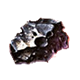
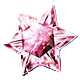
アーティファクト修正
アーティファクト修正

diff --git a/js/artifact.js b/js/artifact.js
@@ -12,30 +12,31 @@ const starterArtifact = {
 	recovery: {
 		name: '剣闘士の証', 
 		effect: '戦闘終了時、HP6回復。', 
-		image: 'images/artifact/gladiator.png', 
+		image: 'images/artifact/Gladiator.png', 
 		firstFunc: 'artifactRecovery'
 	},
 	startDraw: {
 		name: '魔剣士の証', 
 		effect: '戦闘開始時、カード2枚を追加で引く。', 
-		image: 'images/artifact/swordsman.png', 
+		image: 'images/artifact/Swordsman.png', 
 		firstFunc: 'artifactStartDraw'
 	},
 };
 
 const normalArtifact = {
+	/*********************************コモン*************************************/
 	hitPoint7: {
 		name: '栄華の指輪', 
 		rarity: rtifactRarity.common,
 		effect: '最大HPが増加:7', 
-		image: 'images/artifact/crown.png', 
+		image: 'images/artifact/Crown.png', 
 		firstFunc: ''
 	},
 	agility: {
 		name: '金華羽飾', 
 		rarity: rtifactRarity.common,
 		effect: '戦闘開始時、回避率アップ1を得る。', 
-		image: 'images/artifact/feather.png', 
+		image: 'images/artifact/Feather.png', 
 		firstFunc: 'artifactAgility'
 	},
 	attackUpGrade: {
@@ -55,21 +56,21 @@ const normalArtifact = {
 		name: 'サント・キャスク', 
 		rarity: rtifactRarity.common,
 		effect: '戦闘開始時に10ブロックを得る。', 
-		image: 'images/artifact/cask.png', 
+		image: 'images/artifact/Cask.png', 
 		firstFunc: 'artifactBlock'
 	},
 	lamp: {
 		name: '幻麗の明鉱', 
 		rarity: rtifactRarity.common,
 		effect: '戦闘開始時、1エナジーを得る。', 
-		image: 'images/artifact/lamp.png', 
+		image: 'images/artifact/Lamp.png', 
 		firstFunc: 'artifactLamp'
 	},
 	noBlock: {
 		name: '守護騎士の証', 
 		rarity: rtifactRarity.common,
 		effect: 'ブロック無しでターン終了した時、6ブロックを得る',
-		image: 'images/artifact/defender.png', 
+		image: 'images/artifact/Defender.png', 
 		firstFunc: ''
 	},
 	Samurai: {
@@ -83,167 +84,170 @@ const normalArtifact = {
 		name: '双剣士の証', 
 		rarity: rtifactRarity.common,
 		effect: 'アタックの使用10回ごとにダメージが2倍になる。', 
-		image: 'images/artifact/twinSwordsman.png', 
+		image: 'images/artifact/TwinSwordsman.png', 
 		firstFunc: ''
 	},
 	codex: {
 		name: 'コーデックス', 
 		rarity: rtifactRarity.common,
 		effect: '休憩時にカードを1枚獲得する。', 
-		image: 'images/artifact/codex.png', 
+		image: 'images/artifact/Codex.png', 
 		firstFunc: ''
 	},
 	pendant: {
 		name: 'オミナス・ペンダント', 
 		rarity: rtifactRarity.common,
 		effect: 'アタックを10枚プレイするたび、1エナジーを得る。', 
-		image: 'images/artifact/pendant.png', firstFunc: ''
+		image: 'images/artifact/Pendant.png', firstFunc: ''
 	},
 	stone: {
 		name: 'オミナス・ストーン',
 		rarity: rtifactRarity.common,
 		effect: '3ターンごとに、1エナジーを得る。', 
-		image: 'images/artifact/stone.png', 
+		image: 'images/artifact/Stone.png', 
 		firstFunc: ''
 	},
 	strength: {
 		name: 'オミナス・リング', 
 		rarity: rtifactRarity.common,
 		effect: '戦闘開始時、攻撃力アップ1獲得。', 
-		image: 'images/artifact/ring.png', 
+		image: 'images/artifact/Ring.png', 
 		firstFunc: 'artifactStrength'
 	},
 	goblet: {
 		name: 'オミナス・ゴブレット', 
 		rarity: rtifactRarity.common,
 		effect: '戦闘開始時、HP2回復。', 
-		image: 'images/artifact/goblet.png', 
+		image: 'images/artifact/Goblet.png', 
 		firstFunc: 'artifactNormalRecovery'
 	},
 	gavel: {
 		name: '幻麗の小槌', 
 		rarity: rtifactRarity.common,
 		effect: 'ショップに来店するたび、HPを15回復。', 
-		image: 'images/artifact/gavel.png', 
+		image: 'images/artifact/Gavel.png', 
 		firstFunc: ''
 	},
+	/*********************************アンコモン*************************************/
 	hitPoint10: {
 		name: '覇業の指輪', 
 		rarity: rtifactRarity.uncommon,
 		effect: '最大HPが増加:10', 
-		image: 'images/artifact/conquest.png', 
+		image: 'images/artifact/Conquest.png', 
 		firstFunc: ''
 	},
 	threeAttackPower: {
 		name: 'オミナス・ホーン', 
 		rarity: rtifactRarity.uncommon,
 		effect: '1ターンに3枚の「アタック」をプレイするたび、攻撃力アップ1を得る。', 
-		image: 'images/artifact/horn.png', 
+		image: 'images/artifact/Horn.png', 
 		firstFunc: ''
 	},
 	threeAttackDexterity: {
 		name: 'オミナス・フィアン', 
 		rarity: rtifactRarity.uncommon,
 		effect: '1ターンに3枚の「アタック」をプレイするたび、回避率アップ1を得る。', 
-		image: 'images/artifact/fian.png', 
+		image: 'images/artifact/Fian.png', 
 		firstFunc: ''
 	},
 	threeSkill: {
 		name: 'オミナス・アミュレット', 
 		rarity: rtifactRarity.uncommon,
 		effect: '1ターンの間に「スキル」を3枚プレイするたび、敵全体に5ダメージを与える。', 
-		image: 'images/artifact/amulet.png', 
+		image: 'images/artifact/Amulet.png', 
 		firstFunc: ''
 	},
 	threeAttackBlock: {
 		name: 'オミナス・ホイッスル', 
 		rarity: rtifactRarity.uncommon,
 		effect: '「アタック」を3枚プレイするたび、4のブロックを得る。', 
-		image: 'images/artifact/whistle.png', 
+		image: 'images/artifact/Whistle.png', 
 		firstFunc: ''
 	},
 	emblem: {
 		name: '英勇のエンブレム', 
 		rarity: rtifactRarity.uncommon,
 		effect: '敵を倒すと、1エナジーを得て、カードを1枚引く。', 
-		image: 'images/artifact/emblem.png', 
+		image: 'images/artifact/Emblem.png', 
 		firstFunc: ''
 	},
 	tenCard: {
 		name: '幻麗の紋章', 
 		rarity: rtifactRarity.uncommon,
 		effect: 'カードを10枚プレイするたび、カードを1枚引く。', 
-		image: 'images/artifact/arms.png', 
+		image: 'images/artifact/Arms.png', 
 		firstFunc: ''
 	},
+	/*********************************レア*************************************/
 	hitPoint14: {
 		name: '至極の指輪', 
 		rarity: rtifactRarity.rare,
 		effect: '最大HPが増加:14', 
-		image: 'images/artifact/extremely.png', 
+		image: 'images/artifact/Extremely.png', 
 		firstFunc: ''
 	},
 	thelma: {
 		name: 'テルマ', 
 		rarity: rtifactRarity.rare,
 		effect: '使用しなかったエナジーが蓄積されていく。', 
-		image: 'images/artifact/thelma.png', 
+		image: 'images/artifact/Thelma.png', 
 		firstFunc: ''
 	},
 	omega: {
 		name: 'オメガの器', 
 		rarity: rtifactRarity.rare,
 		effect: '脆弱化にならない。', 
-		image: 'images/artifact/omega.png', 
+		image: 'images/artifact/Omega.png', 
 		firstFunc: ''
 	},
 	gavsky: {
 		name: 'ガフスキー', 
 		rarity: rtifactRarity.rare,
 		effect: '恐怖にならない。', 
-		image: 'images/artifact/gavsky.png', 
+		image: 'images/artifact/Gavsky.png', 
 		firstFunc: ''
 	},
-	star: {
+	starFragment: {
 		name: '星の欠片', 
 		rarity: rtifactRarity.rare,
 		effect: '7ターン目の終了時、すべての敵に52ダメージを与える。', 
-		image: 'images/artifact/star.png', 
+		image: 'images/artifact/StarFragment.png', 
 		firstFunc: ''
 	},
+	/*********************************BOSS*************************************/
 	annihilation: {
 		name: '灼滅の焔角', 
 		rarity: rtifactRarity.boss,
 		effect: 'ターン開始時に、1エナジーを得る。ゴールドを入手できなくなる。', 
-		image: 'images/artifact/annihilation.png', 
+		image: 'images/artifact/Annihilation.png', 
 		firstFunc: ''
 	},
 	prison: {
 		name: '氷獄の結晶', 
 		rarity: rtifactRarity.boss,
 		effect: 'ターン開始時に、1エナジーを得る。1ターンの間に、6枚までしかカードを使えなくなる。', 
-		image: 'images/artifact/prison.png', 
+		image: 'images/artifact/Prison.png', 
 		firstFunc: ''
 	},
 	judgment: {
 		name: '裁考の水晶', 
 		rarity: rtifactRarity.boss,
 		effect: 'ターン開始時に、1エナジーを得る。戦闘開始時、すべての敵は筋力1を得る。', 
-		image: 'images/artifact/judgment.png', 
+		image: 'images/artifact/Judgment.png', 
 		firstFunc: ''
 	},
 	horse: {
 		name: '人馬の円盤', 
 		rarity: rtifactRarity.boss,
 		effect: 'ターン開始時に、1エナジーを得る。報酬のカード選択画面で、選択できるカードが2枚減る。', 
-		image: 'images/artifact/horse.png', 
+		image: 'images/artifact/Horse.png', 
 		firstFunc: ''
 	},
 	crystal: {
 		name: '妃光の水晶', 
 		rarity: rtifactRarity.boss,
 		effect: 'ターン開始時に、1エナジーを得る。敵の行動予測がわからなくなる。', 
-		image: 'images/artifact/crystal.png', 
+		image: 'images/artifact/Crystal.png', 
 		firstFunc: ''
 	},
 	genma: {
@@ -257,28 +261,64 @@ const normalArtifact = {
 		name: '嵐竜の琥珀眼', 
 		rarity: rtifactRarity.boss,
 		effect: 'ターン終了時に、手札を捨てなくなる。', 
-		image: 'images/artifact/eye.png', 
+		image: 'images/artifact/Eye.png', 
 		firstFunc: ''
 	},
 	blue: {
 		name: '蒼の羽根', 
 		rarity: rtifactRarity.boss,
 		effect: 'エリートを倒すと2個のレリックをドロップするようになる。', 
-		image: 'images/artifact/blue.png', 
+		image: 'images/artifact/Blue.png', 
 		firstFunc: ''
 	},
 	key: {
 		name: '虚ろなる鍵', 
 		rarity: rtifactRarity.boss,
 		effect: '獲得時、2枚のカードをデッキから削除する。', 
-		image: 'images/artifact/key.png', 
+		image: 'images/artifact/Key.png', 
 		firstFunc: ''
 	},
 	thorn: {
 		name: '漆黒の棘翅', 
 		rarity: rtifactRarity.boss,
 		effect: 'ボスとエリートとの戦闘において、ターン開始時に、1エナジーを得る。', 
-		image: 'images/artifact/thorn.png', 
+		image: 'images/artifact/Thorn.png', 
+		firstFunc: ''
+	},
+	/*********************************BOSS*************************************/
+	card: {
+		name: 'よろずや会員カード', 
+		rarity: rtifactRarity.shop,
+		effect: '全商品50％割引！', 
+		image: 'images/artifact/Card.png', 
+		firstFunc: ''
+	},
+	Dawn: {
+		name: '極到の暁', 
+		rarity: rtifactRarity.shop,
+		effect: 'エリートとの戦闘開始時、筋力2を得る。', 
+		image: 'images/artifact/Dawn.png', 
+		firstFunc: ''
+	},
+	Drop: {
+		name: '極到の雫', 
+		rarity: rtifactRarity.shop,
+		effect: 'デッキをシャッフルするたび、6ブロックを得る。', 
+		image: 'images/artifact/Drop.png', 
+		firstFunc: ''
+	},
+	Star: {
+		name: '極到の星', 
+		rarity: rtifactRarity.shop,
+		effect: '戦闘開始時、弱体無効1を得る。', 
+		image: 'images/artifact/Star.png', 
+		firstFunc: ''
+	},
+	eye: {
+		name: '嵐竜の琥珀眼', 
+		rarity: rtifactRarity.shop,
+		effect: '山札を見た時、カードの並び順通りに表示される。', 
+		image: 'images/artifact/Eye.png', 
 		firstFunc: ''
 	},
 };